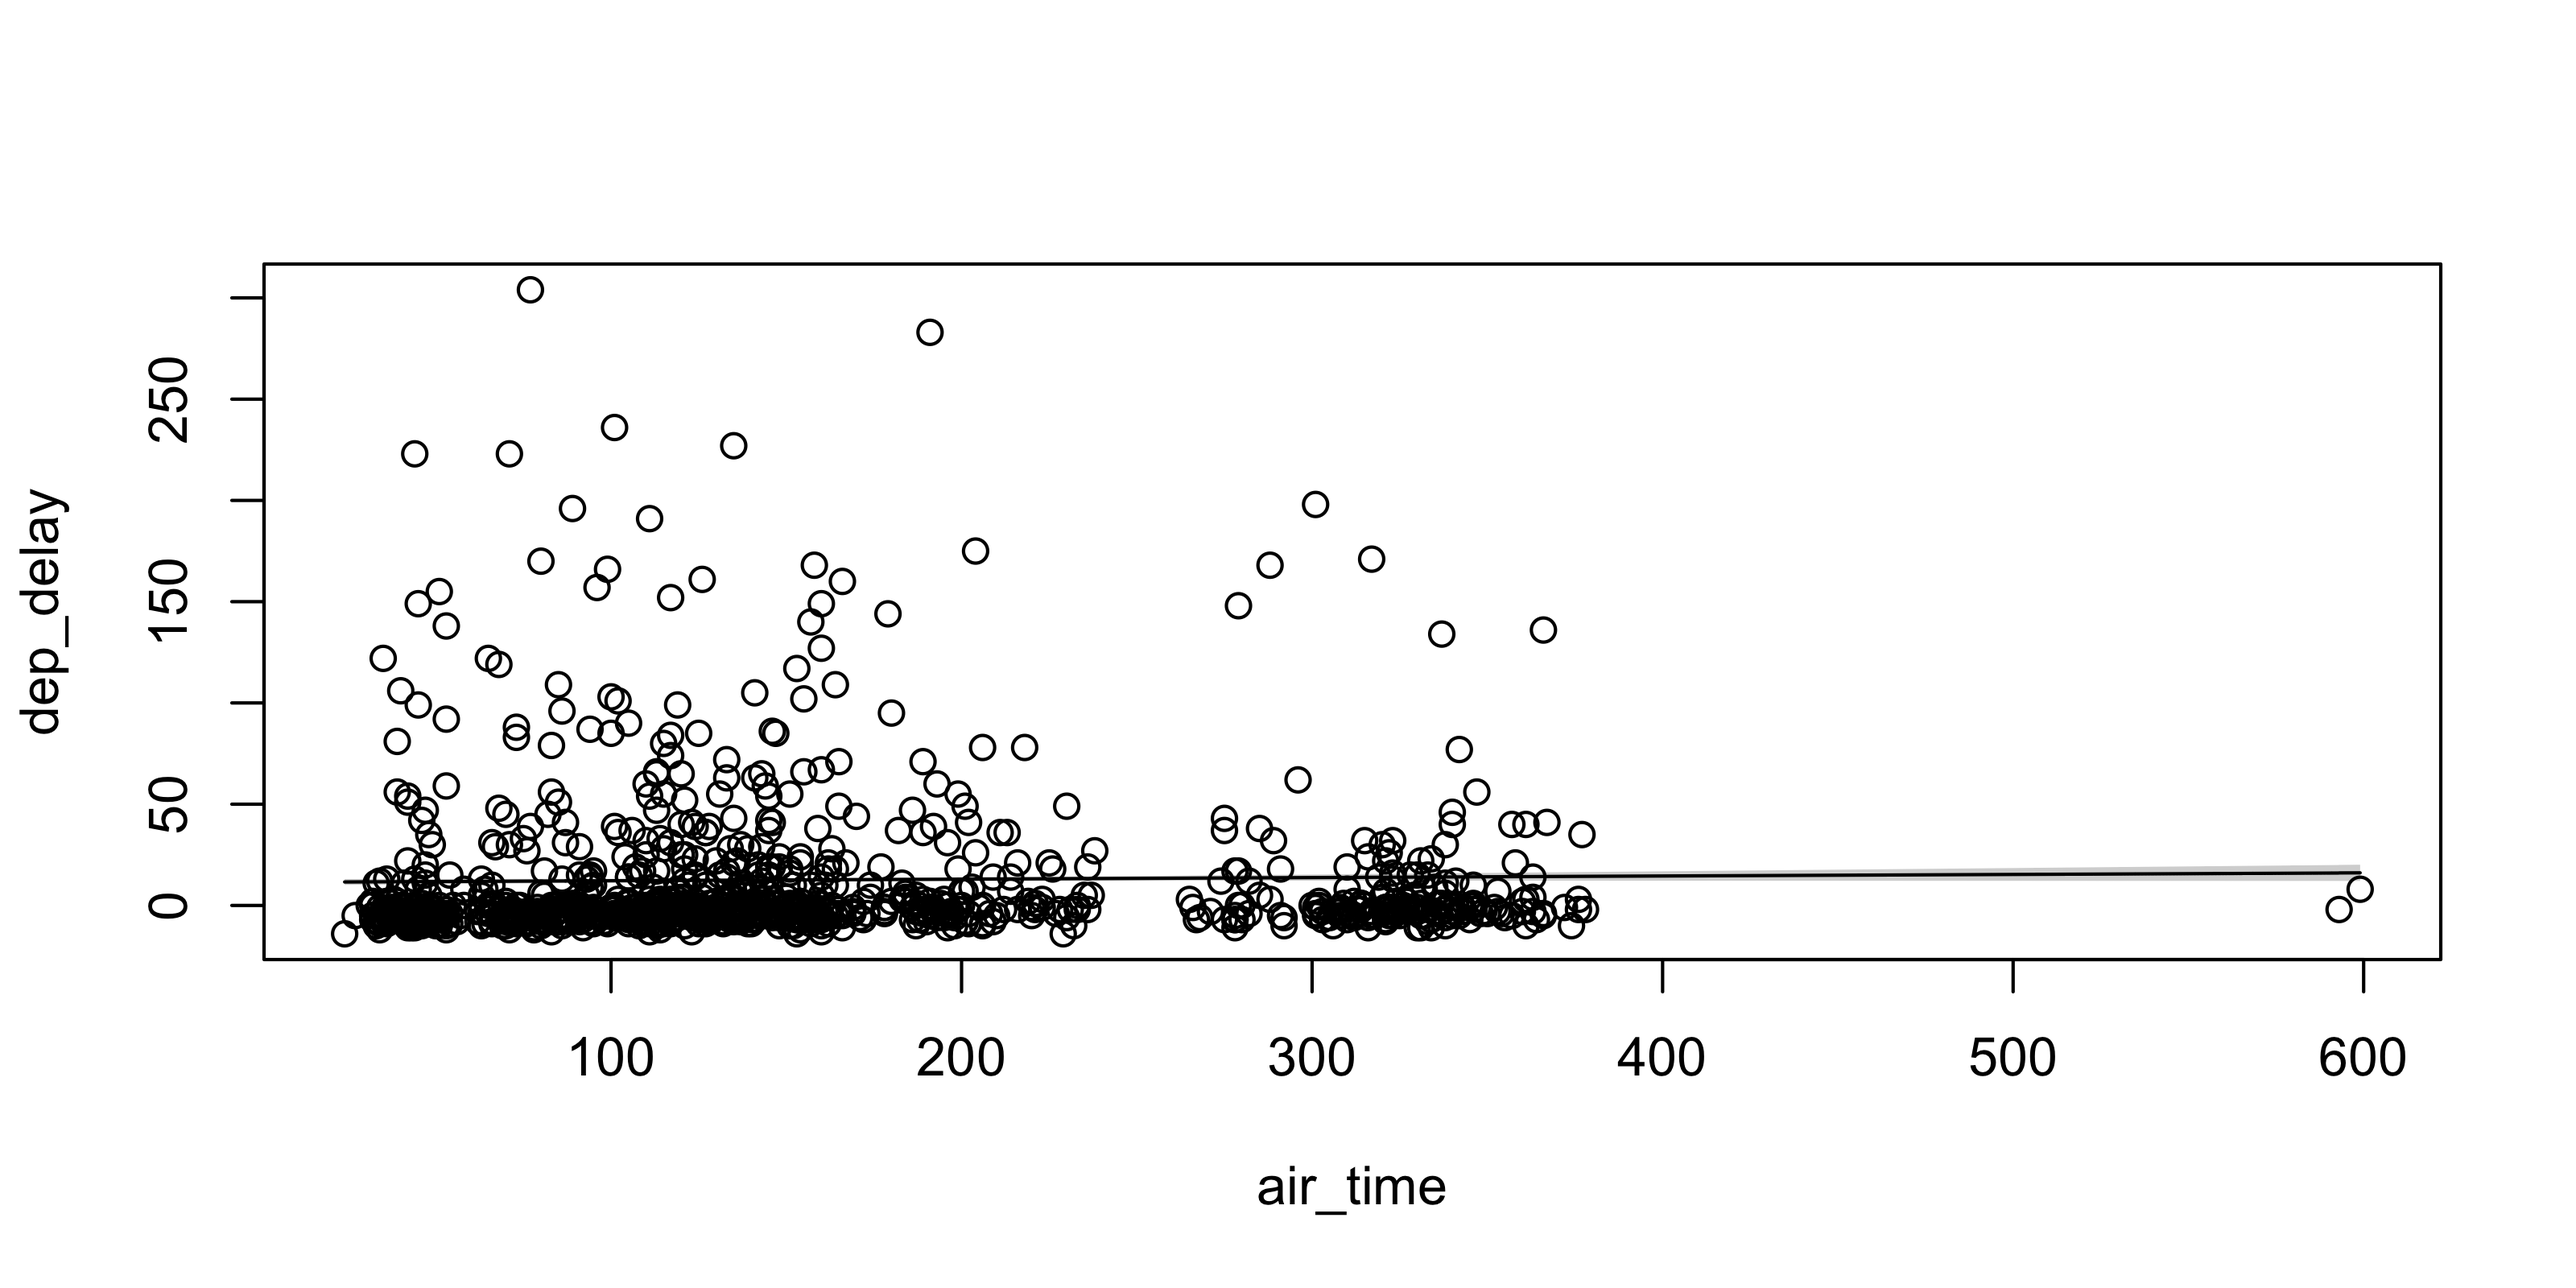
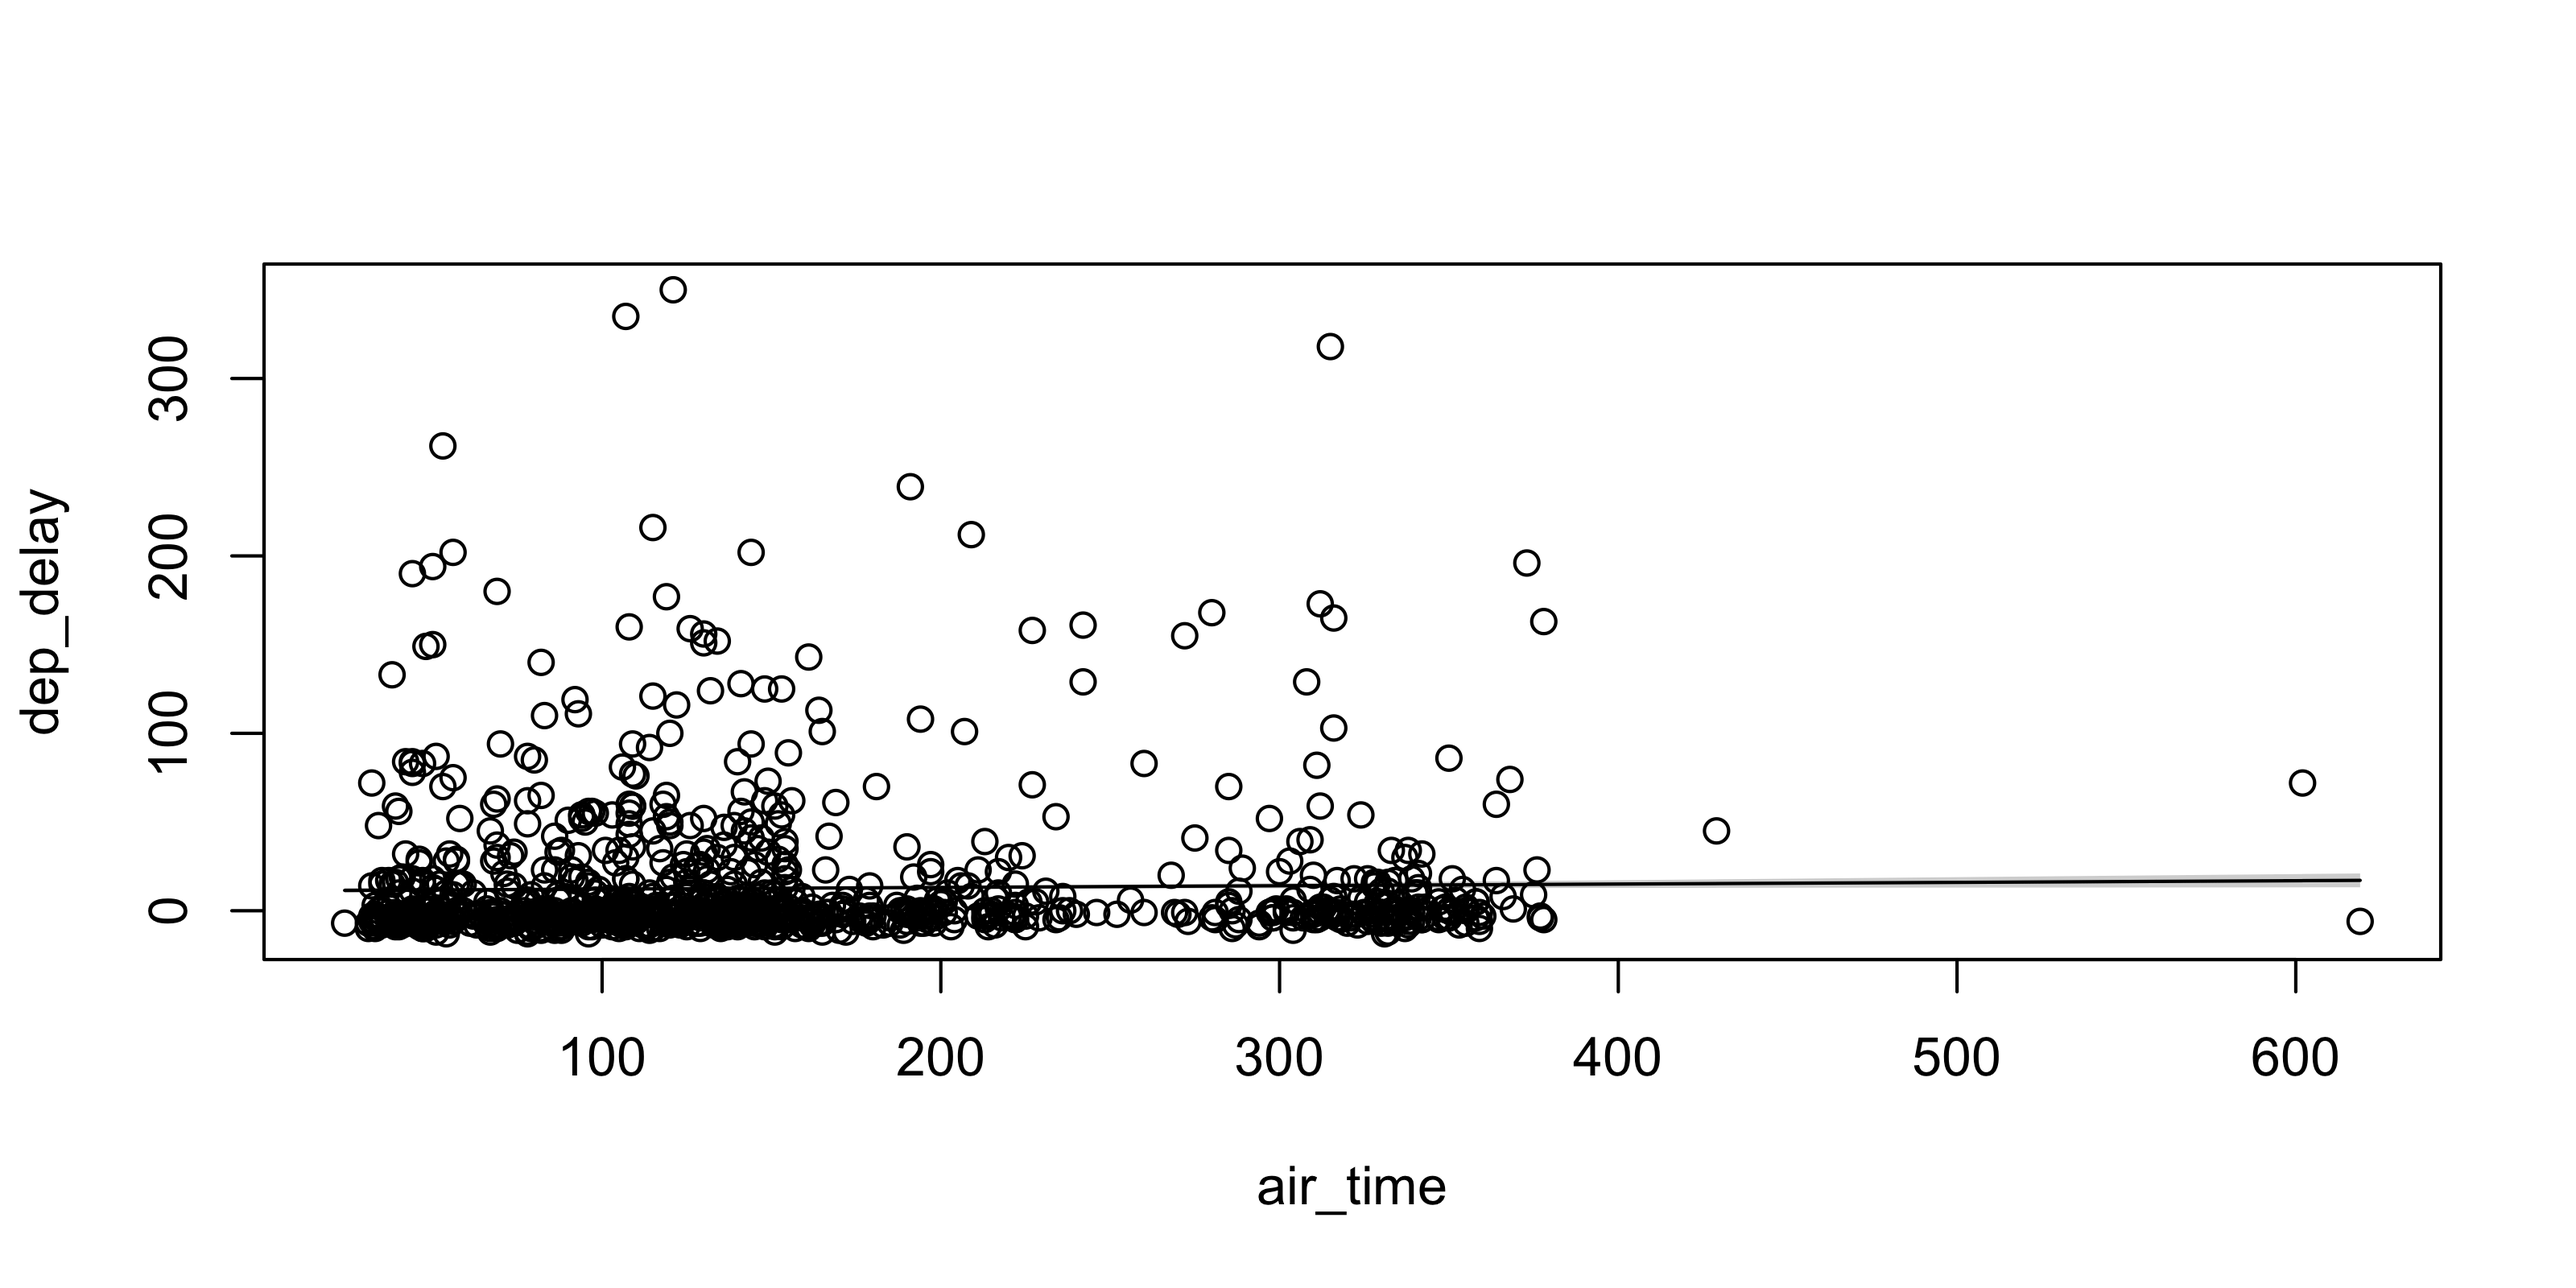
Prepare for CRAN submission

diff --git a/README.md b/README.md
@@ -29,9 +29,9 @@ library(fwlplot)
 library(fixest)
 
 flights <- data.table::fread("https://raw.githubusercontent.com/Rdatatable/data.table/master/vignettes/flights14.csv")
-flights$long_distance = (flights$distance > 2000)
+flights$long_distance <- (flights$distance > 2000)
 # Sample 10000 rows
-sample = flights[sample(nrow(flights), 10000), ]
+sample <- flights[sample(nrow(flights), 10000), ]
 ```
 
 ``` r
@@ -44,7 +44,7 @@ fwl_plot(dep_delay ~ air_time, data = sample)
 ``` r
 # With covaraites = FWL'd scatterplot
 fwl_plot(
-  dep_delay ~ air_time | origin + dest, 
+  dep_delay ~ air_time | origin + dest,
   data = sample, vcov = "hc1"
 )
 ```
@@ -59,7 +59,7 @@ If you have a large dataset, we can plot a sample of points with the
 
 ``` r
 fwl_plot(
-  dep_delay ~ air_time | origin + dest, 
+  dep_delay ~ air_time | origin + dest,
   # Full dataset for estimation, 1000 obs. for plotting
   data = flights, n_sample = 1000
 )
@@ -74,25 +74,25 @@ should work by just replacing `feols` with
 
 ``` r
 feols(
-  dep_delay ~ air_time | origin + dest, 
+  dep_delay ~ air_time | origin + dest,
   data = sample, subset = ~long_distance, cluster = ~origin
 )
 #> OLS estimation, Dep. Var.: dep_delay
-#> Observations: 1,723 
-#> Subset: long_distance 
-#> Fixed-effects: origin: 2,  dest: 14
+#> Observations: 1,813
+#> Subset: long_distance
+#> Fixed-effects: origin: 2,  dest: 15
 #> Standard-errors: Clustered (origin) 
-#>          Estimate Std. Error t value Pr(>|t|)    
-#> air_time 0.190664   0.021643 8.80955 0.071957 .  
+#>          Estimate Std. Error  t value Pr(>|t|) 
+#> air_time  0.02462   0.085093 0.289332   0.8207 
 #> ---
 #> Signif. codes:  0 '***' 0.001 '**' 0.01 '*' 0.05 '.' 0.1 ' ' 1
-#> RMSE: 41.6     Adj. R2: 0.009444
-#>              Within R2: 0.005488
+#> RMSE: 41.9     Adj. R2: 0.007301
+#>              Within R2: 8.795e-5
 ```
 
 ``` r
 fwl_plot(
-  dep_delay ~ air_time | origin + dest, 
+  dep_delay ~ air_time | origin + dest,
   data = sample, subset = ~long_distance, cluster = ~origin
 )
 ```
@@ -104,7 +104,7 @@ fwl_plot(
 ``` r
 # Multiple y variables
 fwl_plot(
-  c(dep_delay, arr_delay) ~ air_time | origin + dest, 
+  c(dep_delay, arr_delay) ~ air_time | origin + dest,
   data = sample
 )
 ```
@@ -114,7 +114,7 @@ fwl_plot(
 ``` r
 # `split` sample
 fwl_plot(
-  c(dep_delay, arr_delay) ~ air_time | origin + dest, 
+  c(dep_delay, arr_delay) ~ air_time | origin + dest,
   data = sample, split = ~long_distance, n_sample = 1000
 )
 ```
@@ -124,7 +124,7 @@ fwl_plot(
 ``` r
 # `fsplit` = `split` sample and Full sample
 fwl_plot(
-  c(dep_delay, arr_delay) ~ air_time | origin + dest, 
+  c(dep_delay, arr_delay) ~ air_time | origin + dest,
   data = sample, fsplit = ~long_distance, n_sample = 1000
 )
 ```
@@ -137,8 +137,8 @@ fwl_plot(
 library(ggplot2)
 theme_set(theme_grey(base_size = 16))
 fwl_plot(
-  c(dep_delay, arr_delay) ~ air_time | origin + dest, 
-  data = sample, fsplit = ~long_distance, 
+  c(dep_delay, arr_delay) ~ air_time | origin + dest,
+  data = sample, fsplit = ~long_distance,
   n_sample = 1000, ggplot = TRUE
 )
 ```
